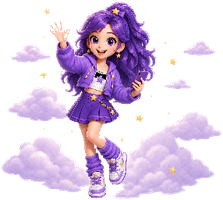
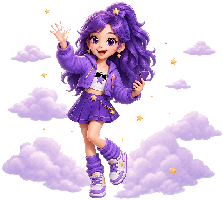
feat(mp): 会员 Hero 图走 CDN/OSS 减包，透明底图与同步脚本
星选会员页插图改 recruit-covers/membership 远程加载并 pack ignore；上传与轻量静态同步脚本支持 membership 目录；Hero/身份 mascot 透明 PNG 更新。

diff --git a/scripts/upload-mp-recruit-covers-oss.js b/scripts/upload-mp-recruit-covers-oss.js
@@ -208,6 +208,21 @@ async function main() {
   await uploadDir('login-orbit', path.join(MP, 'images/login-orbit'), /\.jpe?g$/i)
   await uploadDir('identity', path.join(MP, 'images/identity'), /\.png$/i)
 
+  const membershipDir = path.join(MP, 'images/membership')
+  const membershipFiles = ['hero-talent.png', 'hero-pr.png', 'hero-shoot.png', 'hero-edit.png']
+  for (const name of membershipFiles) {
+    const local = path.join(membershipDir, name)
+    if (!fs.existsSync(local)) continue
+    const key = `${cfg.prefix}/membership/${name}`
+    await client.put(key, local, {
+      headers: {
+        'Content-Type': 'image/png',
+        'Cache-Control': 'public, max-age=31536000, immutable',
+      },
+    })
+    console.log(`OK: membership hero -> ${publicBase}/membership/${name}`)
+  }
+
   console.log(`OK: ${ok} files -> ${publicBase}/`)
   console.log('请在微信公众平台 → 开发 → 开发管理 → 服务器域名 → downloadFile 合法域名 添加：')
   console.log(`  https://${cfg.bucket}.${cfg.region}.aliyuncs.com`)

diff --git a/灵祺达人撮合小程序/pages/mine-xingxuan-membership/mine-xingxuan-membership.js b/灵祺达人撮合小程序/pages/mine-xingxuan-membership/mine-xingxuan-membership.js
@@ -9,6 +9,7 @@ const mpMembershipApi = require('../../utils/mpMembershipApi.js')
 const registryProfileSync = require('../../utils/registryProfileSync.js')
 const { prepareMineSubPage } = require('../../utils/pageIdentityChrome.js')
 const guestRoutes = require('../../utils/mpGuestRoutes.js')
+const mpCdnAssets = require('../../utils/mpCdnAssets.js')
 
 const PLAN_TAB_ORDER = ['basic', 'pro', 'flagship', 'enterprise']
 const PLAN_TAB_SHORT = {
@@ -32,10 +33,10 @@ const HERO_SUBTITLE = {
 }
 
 const IDENTITY_ILLUSTRATION = {
-  talent: '/images/membership/hero-talent.png',
-  pr: '/images/membership/hero-pr.png',
-  shoot: '/images/membership/hero-shoot.png',
-  edit: '/images/membership/hero-edit.png',
+  talent: mpCdnAssets.membershipHero('talent'),
+  pr: mpCdnAssets.membershipHero('pr'),
+  shoot: mpCdnAssets.membershipHero('shoot'),
+  edit: mpCdnAssets.membershipHero('edit'),
 }
 
 const GROUP_VISUAL = {

diff --git a/灵祺星选小程序抖音版/灵祺星选/utils/mpCdnAssets.js b/灵祺星选小程序抖音版/灵祺星选/utils/mpCdnAssets.js
@@ -83,6 +83,18 @@ function defaultShareCover() {
   return assetUrl('share/share-cover-ai-match.jpg')
 }
 
+const MEMBERSHIP_HERO_FILES = {
+  talent: 'membership/hero-talent.png',
+  pr: 'membership/hero-pr.png',
+  shoot: 'membership/hero-shoot.png',
+  edit: 'membership/hero-edit.png',
+}
+
+function membershipHero(id) {
+  const rel = MEMBERSHIP_HERO_FILES[id] || MEMBERSHIP_HERO_FILES.talent
+  return assetUrl(rel)
+}
+
 module.exports = {
   assetUrl,
   ossAssetUrl,
@@ -90,6 +102,7 @@ module.exports = {
   identityIconRel,
   identityIconCandidates,
   defaultShareCover,
+  membershipHero,
   welcomeHeroBg: assetUrl('auth/welcome-hero-bg.jpg'),
   welcomeBottomDeco: assetUrl('auth/welcome-bottom-deco.png'),
   loginHeroBg: assetUrl('auth/login-hero-bg.jpg'),

diff --git a/灵祺达人撮合小程序/utils/mpCdnAssets.js b/灵祺达人撮合小程序/utils/mpCdnAssets.js
@@ -83,6 +83,18 @@ function defaultShareCover() {
   return assetUrl('share/share-cover-ai-match.jpg')
 }
 
+const MEMBERSHIP_HERO_FILES = {
+  talent: 'membership/hero-talent.png',
+  pr: 'membership/hero-pr.png',
+  shoot: 'membership/hero-shoot.png',
+  edit: 'membership/hero-edit.png',
+}
+
+function membershipHero(id) {
+  const rel = MEMBERSHIP_HERO_FILES[id] || MEMBERSHIP_HERO_FILES.talent
+  return assetUrl(rel)
+}
+
 module.exports = {
   assetUrl,
   ossAssetUrl,
@@ -90,6 +102,7 @@ module.exports = {
   identityIconRel,
   identityIconCandidates,
   defaultShareCover,
+  membershipHero,
   welcomeHeroBg: assetUrl('auth/welcome-hero-bg.jpg'),
   welcomeBottomDeco: assetUrl('auth/welcome-bottom-deco.png'),
   loginHeroBg: assetUrl('auth/login-hero-bg.jpg'),
